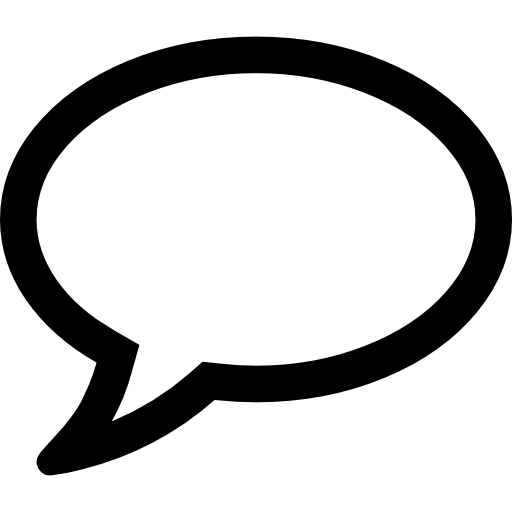
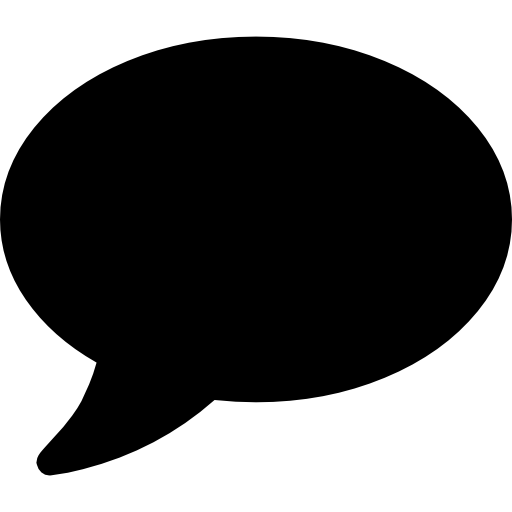
comment 디자인 변경

diff --git a/src/components/common/ActionList.vue b/src/components/common/ActionList.vue
@@ -1,10 +1,10 @@
 <template>
   <div>
     <ul>
-        <li class="like" @click="onLikeClick()">
-          <img :class="{active: isActive}" src="../../assets/images/heart.png" alt="">
-        </li>
-      <li>
+      <li class="like" @click="onLikeClick()">
+        <img :class="{active: isActive}" src="../../assets/images/heart.png" alt="">
+      </li>
+      <li class="comment">
         <img src="../../assets/images/comment.png" alt="">
       </li>
     </ul>
@@ -42,13 +42,21 @@ ul {
       width: 30px;
     }
 
+    &.comment {
+      z-index: 99;
+      img {
+        filter: invert(100%) sepia(1%) saturate(1%) hue-rotate(1deg) brightness(1000%) contrast(100%) drop-shadow(0px 1px 2px grey);
+      }
+    }
+
     &.like {
+      z-index: 100;
       img {
         filter: invert(1%) sepia(1%) saturate(1%) hue-rotate(1deg) brightness(1000%) contrast(100%) drop-shadow(0px 1px 2px grey);
 
         &.active {
           filter: none;
-          animation: bounce-in .7s;
+          animation: bounce-in .8s;
         }
 
         @keyframes bounce-in {
@@ -56,7 +64,7 @@ ul {
             transform: scale(0);
           }
           70% {
-            transform: scale(2);
+            transform: scale(2.5);
           }
           80% {
             transform: rotate(5deg);
